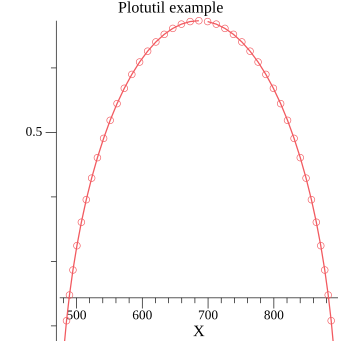
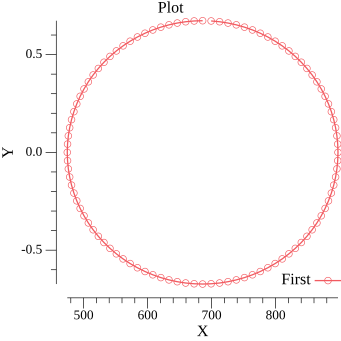
fixes

diff --git a/echartsDir/v3.go b/echartsDir/v3.go
@@ -80,6 +80,26 @@ func MakePhiNagr() ([]float64, []float64) {
 	return x, y
 }
 
+func MakeDPhiNagr()([]float64,[]float64)  {
+	dt := float64(T / points)
+	x := make([]float64, points)
+	y := make([]float64, points)
+	_, yyn := MakePhiNagr()
+	for i := 0; i < points; i++ {
+		ii := float64(i)
+		x[i] = ii * dt
+		y[i] = (math.Acos((math.Pow(aNagr, 2)) +
+			math.Pow(bNagr, 2) - math.Pow(yyn[i], 2)/
+			(2*aNagr*bNagr))-math.Acos((math.Pow(aNagr, 2)) +
+				math.Pow(bNagr, 2) - math.Pow(yyn[i], 2)/(2*aNagr*bNagr))-
+			math.Acos((math.Pow(aNagr, 2)) +
+				math.Pow(bNagr, 2) - math.Pow(yyn[i], 2)/
+				(2*aNagr*bNagr))-math.Acos((math.Pow(aNagr, 2)) +
+			math.Pow(bNagr, 2) - math.Pow(yyn[i], 2)/(2*aNagr*bNagr)))/dt
+	}
+	return x, y
+}
+
 func MakeRNagr() ([]float64, []float64) {
 	dt := float64(T / points)
 	x := make([]float64, points)

diff --git a/plotDir/v1.go b/plotDir/v1.go
@@ -5,8 +5,6 @@ import (
 	"gonum.org/v1/plot"
 	"gonum.org/v1/plot/plotter"
 	"gonum.org/v1/plot/plotutil"
-	"gonum.org/v1/plot/vg"
-
 	//"gonum.org/v1/plot/vg/draw"
 	//"image/color"
 	"math"
@@ -171,13 +169,13 @@ func PlotData(path string, xys plotter.XYs, maxX,maxY float64) error {
 	}
 
 	p := plot.New()
-	p.Title.Text = "Plotutil example"
+	p.Title.Text = "Plot"
 	p.X.Label.Text = "X"
-	p.X.Padding = -vg.Length(maxX/2)
-	p.X.Max = maxX
+	//p.X.Padding = -vg.Length(maxX/2)
+	//p.X.Max = maxX
 	p.Y.Label.Text = "Y"
-	p.Y.Padding = -vg.Length(maxY)
-	p.Y.Max = maxY
+	//p.Y.Padding = -vg.Length(maxY)
+	//p.Y.Max = maxY
 	//s, err := plotter.NewScatter(xys)
 	fmt.Println(maxX,maxY)
 	err = plotutil.AddLinePoints(p,"First",xys)
